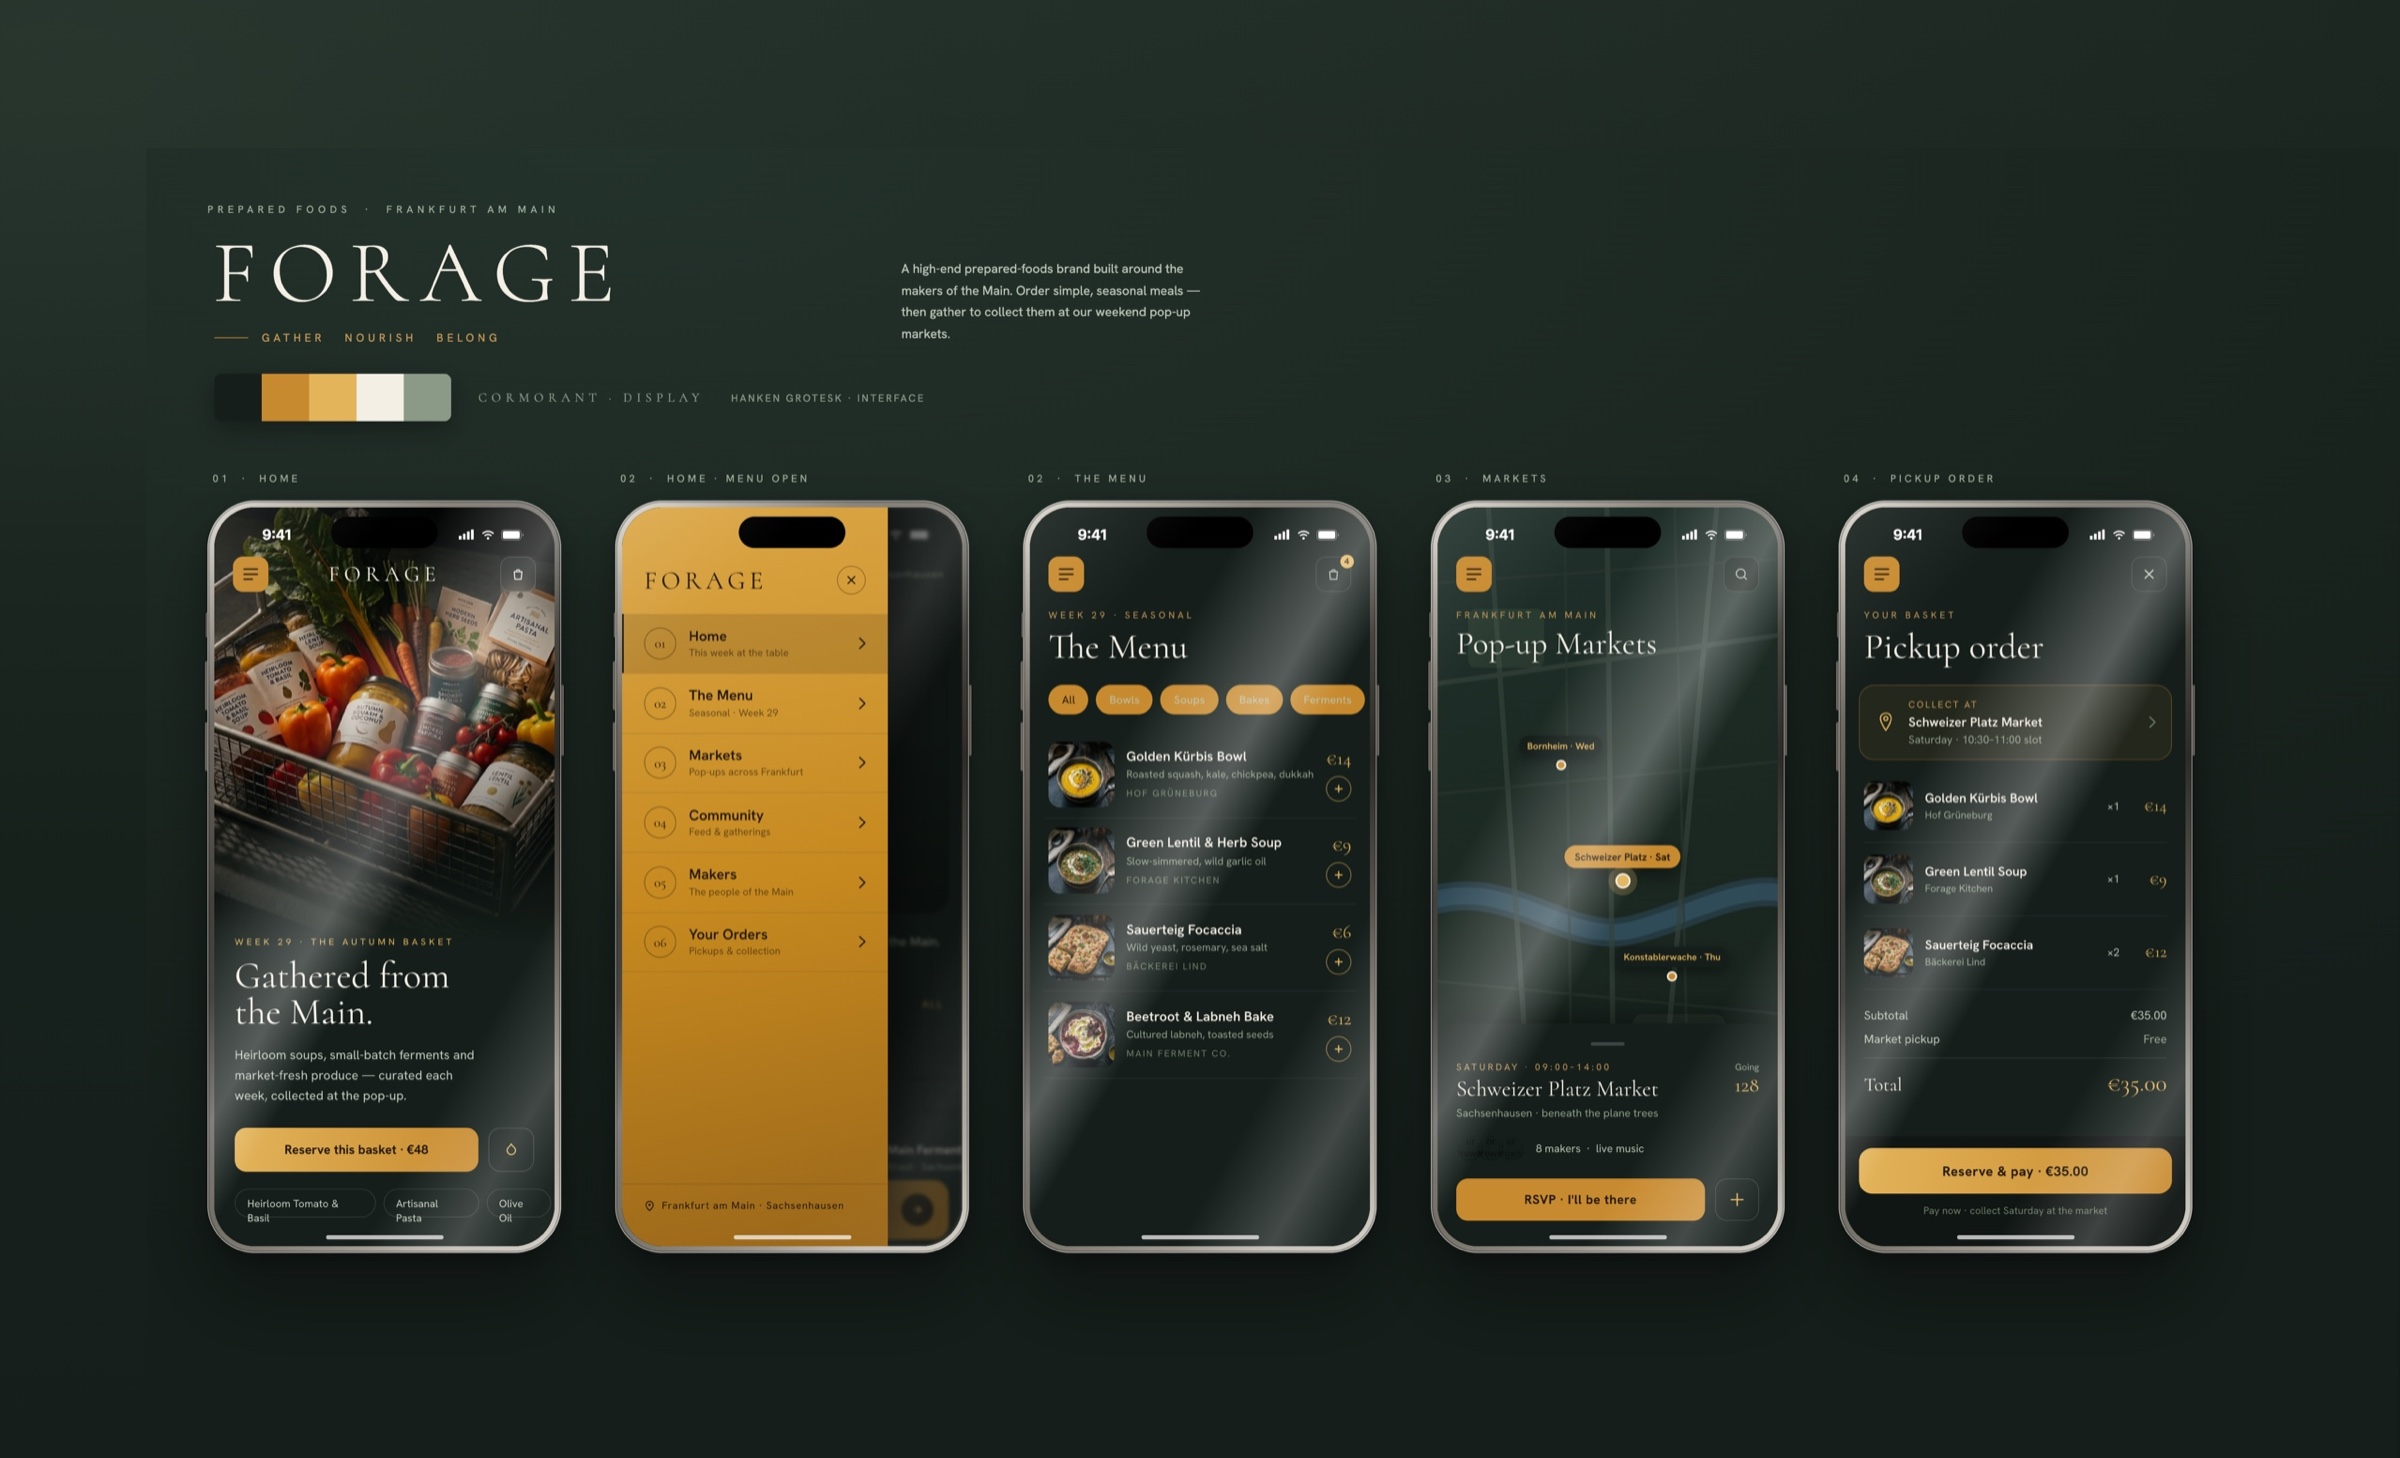
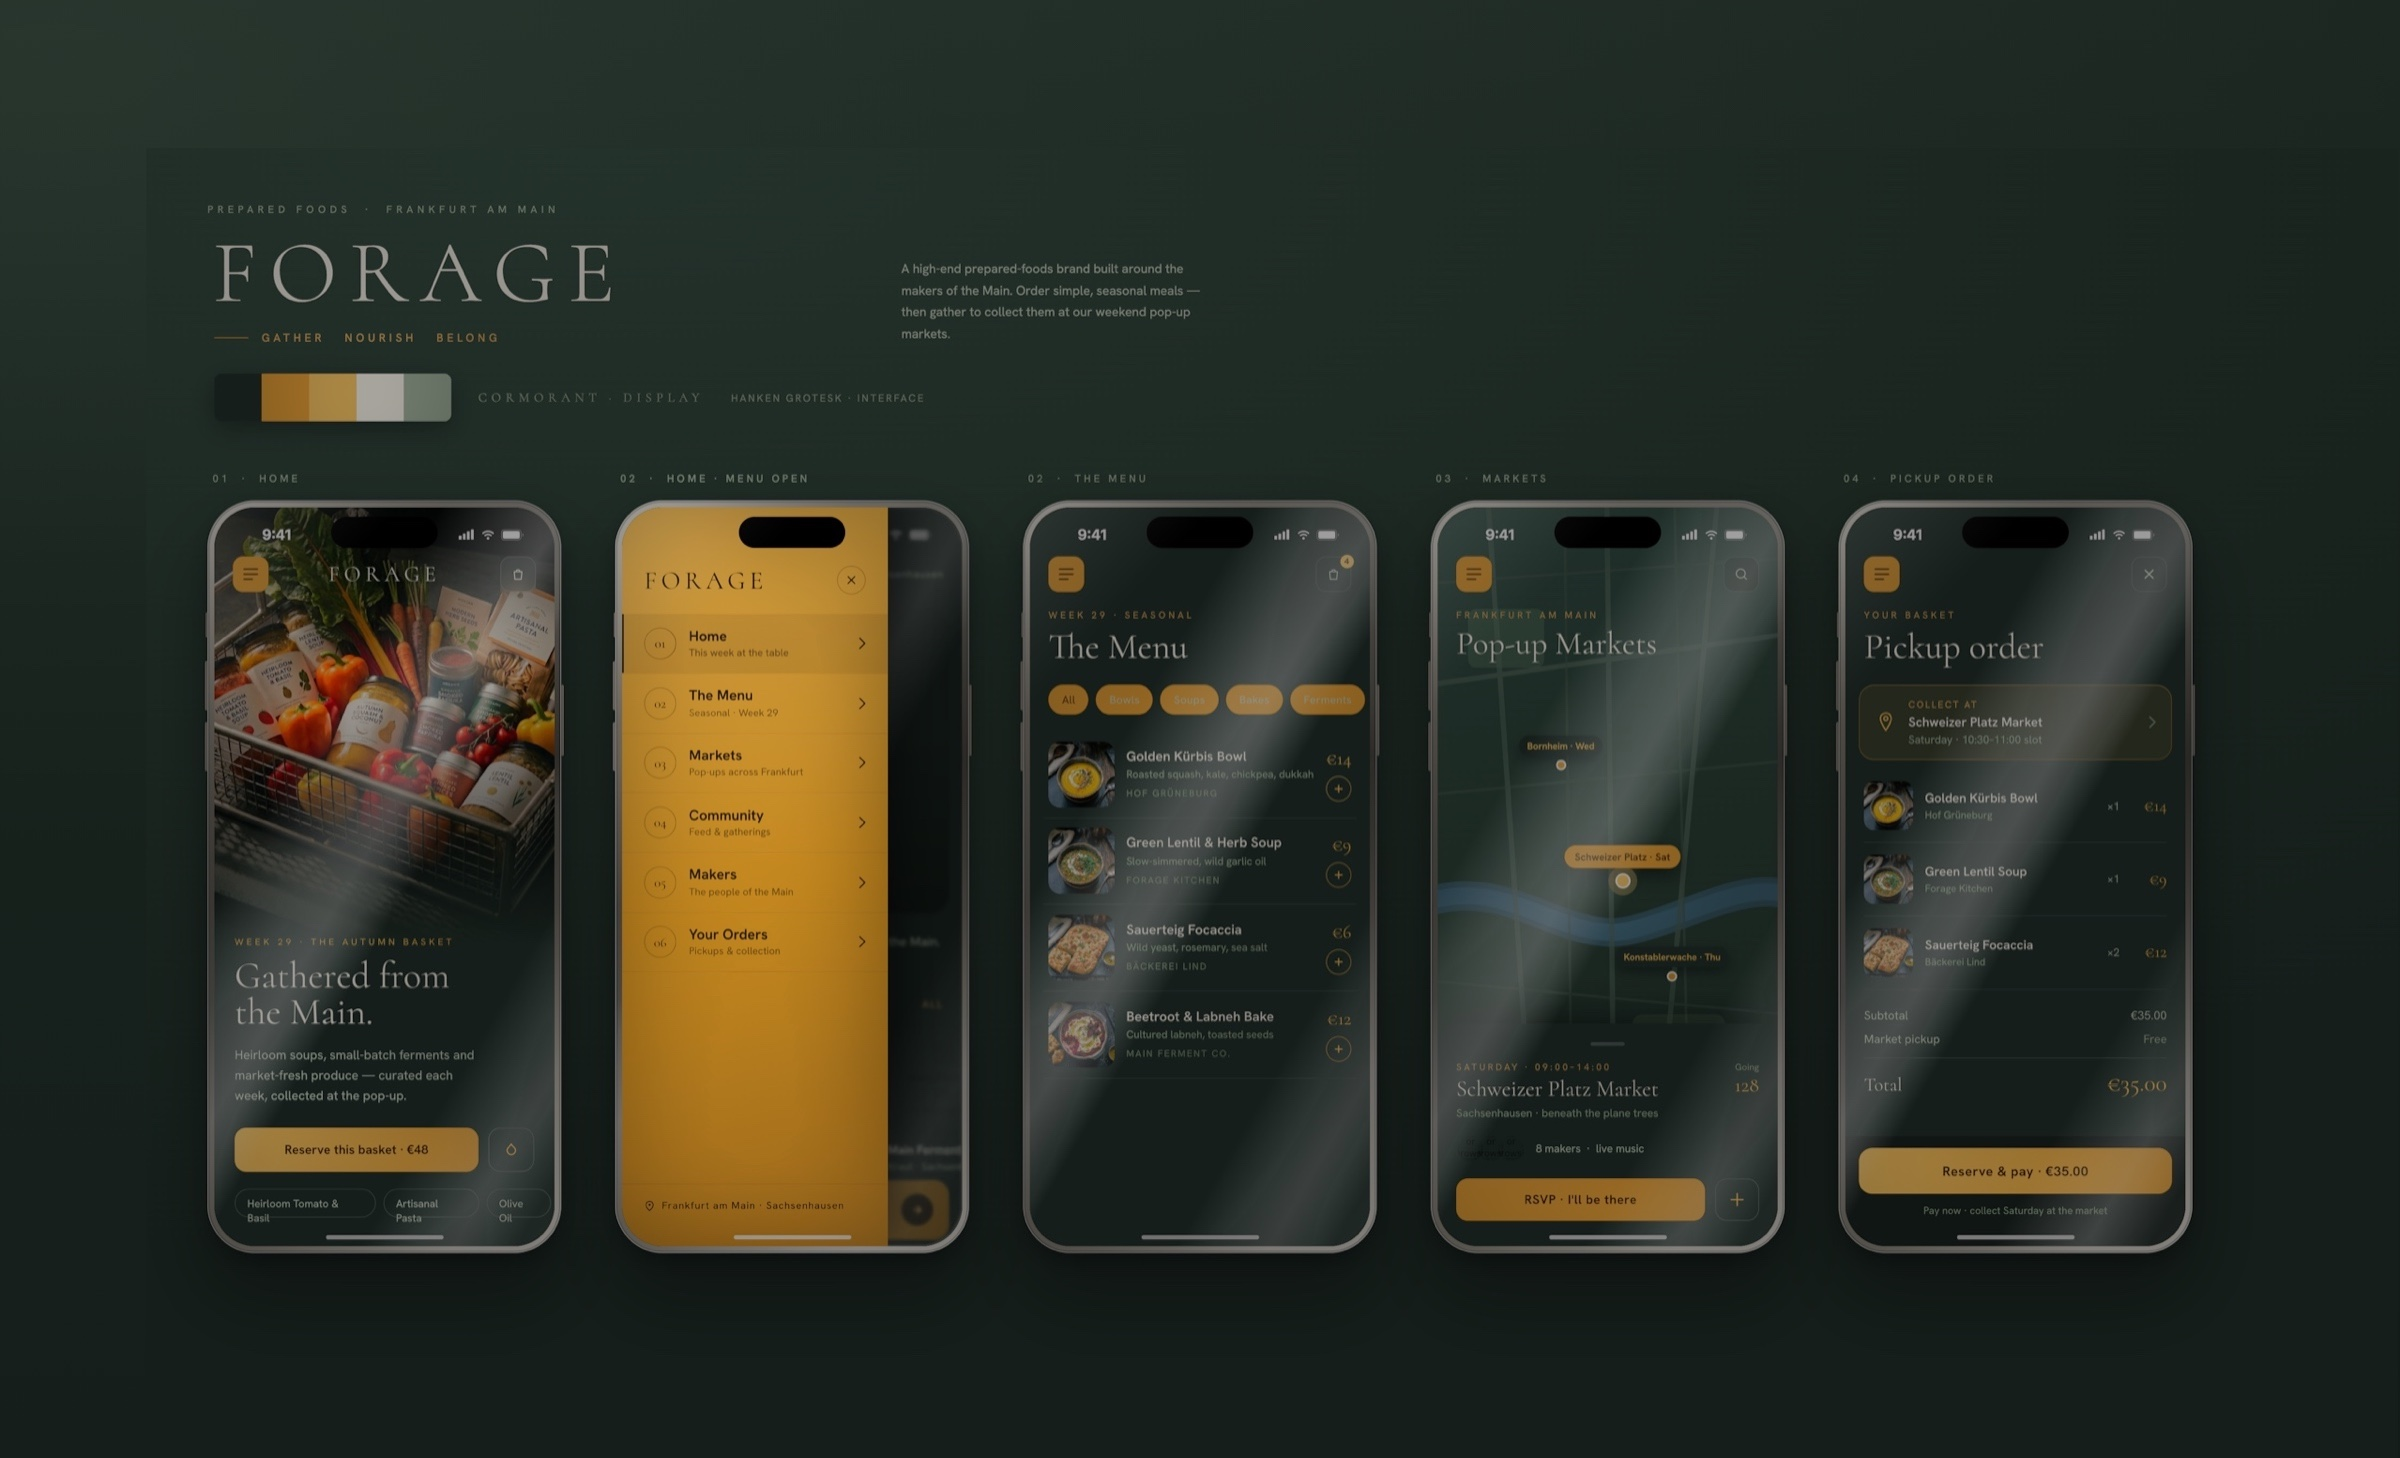
Forage: reduce glare on the iPhone screens ~50% (local-highlight reduction)

diff --git a/forage.html b/forage.html
@@ -112,7 +112,7 @@
 </header>
 
 <section class="wrap">
-  <div class="bigimg"><img src="assets/img/forage-detail.jpg?v=3" alt="Forage — brand system and mobile app screens: home, menu, pop-up markets, and pickup order" /></div>
+  <div class="bigimg"><img src="assets/img/forage-detail.jpg?v=4" alt="Forage — brand system and mobile app screens: home, menu, pop-up markets, and pickup order" /></div>
 </section>
 
 <section class="contact-cta" id="contact">
